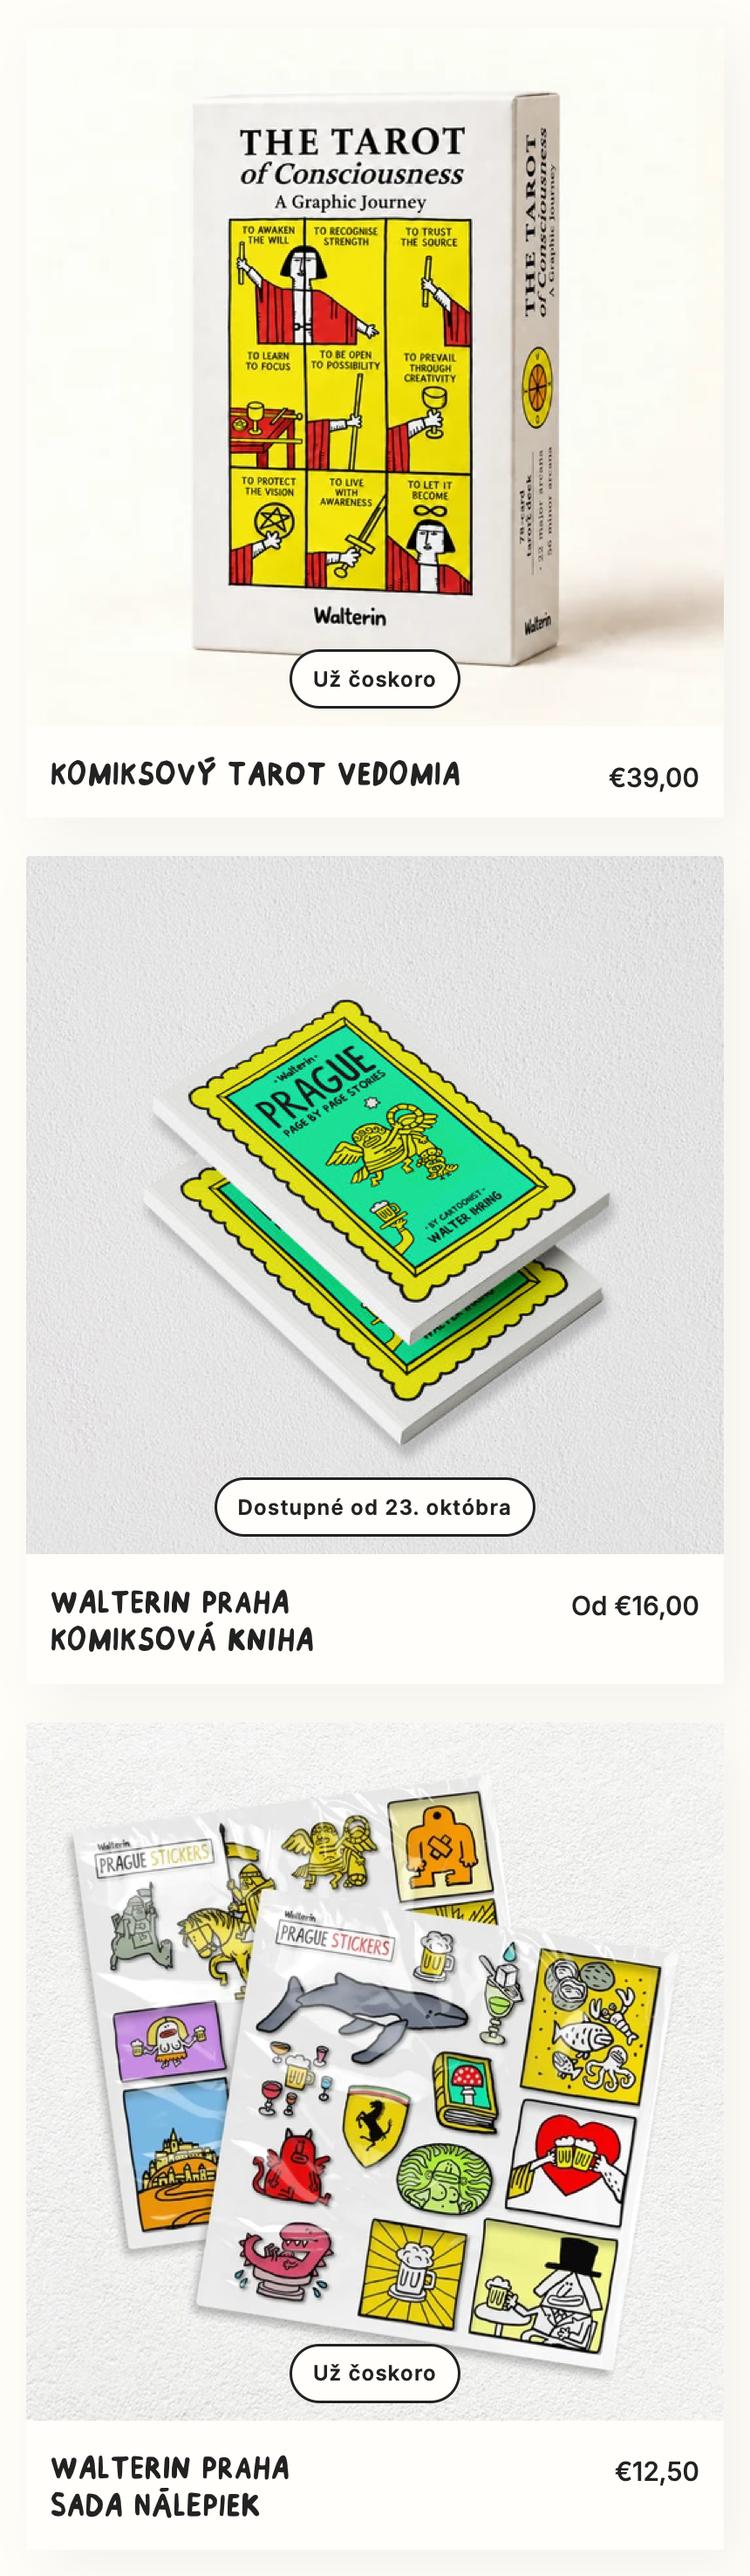
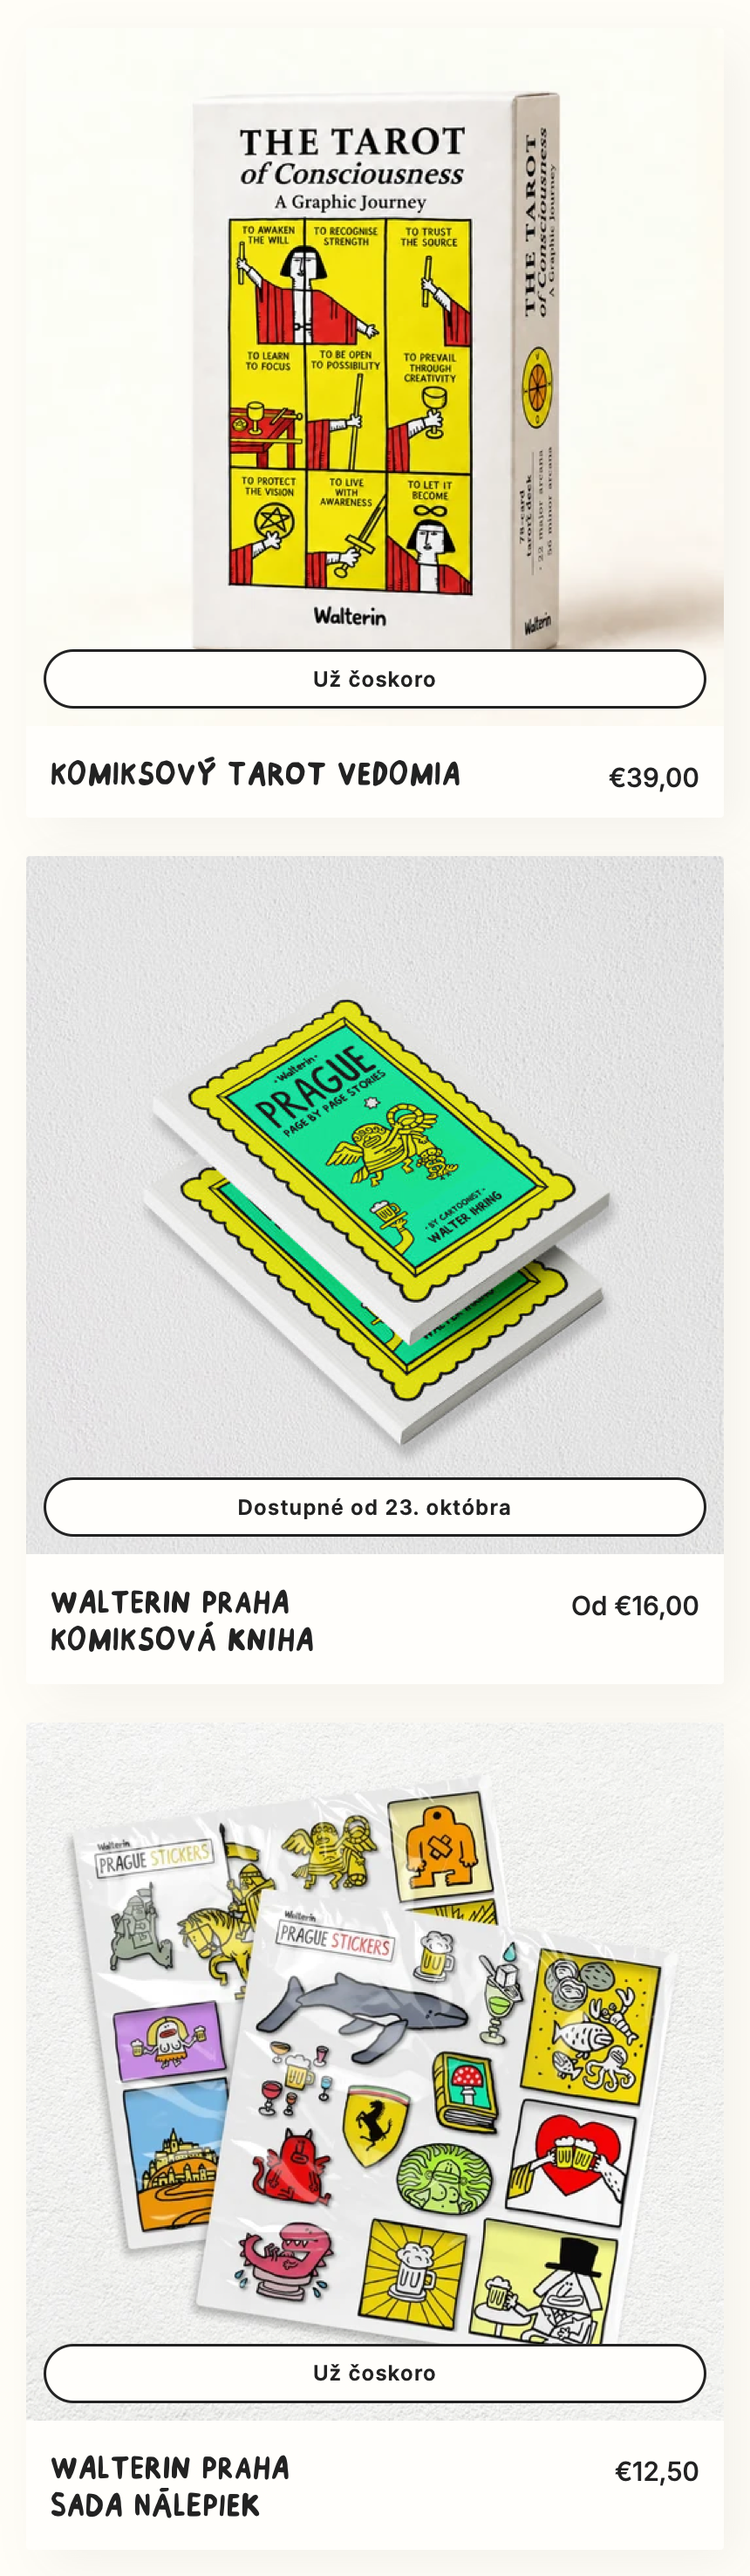
Pill spans the card on phones, and never disappears below 1024px
Preview only. Nothing pushed to the live theme.

Two corrections from Veronka, 7 Oct 2026, and both were mine to make.

1. The hugging, content-width pill is gone. It spans the card again, inset 10px
   each side on a phone against 14px on a desk — the same object at a smaller
   scale, not a different shape. Asked which scale she wanted rather than
   picking: full width at the slim phone size (34px / 7px 12px / 12px), with the
   desk unchanged at 48px / 12px 18px / 14px.

   The hugging was never in her brief. It was my idea, shipped into a preview
   without asking, and undoing it is the cost of that.

2. The pill no longer vanishes at phone widths. Visibility was decided by
   `@media (hover: none)` and nothing else, so any browser reporting a pointer
   hid it at rest — INCLUDING a desktop window dragged to phone width, which is
   exactly what she was looking at. Now `(hover: none), (max-width: 1024px)`:
   no hover at all, OR a viewport no wider than a tablet. An iPad in portrait is
   1024; in landscape it is 1366 and `hover: none` catches it.

   The sold-out wording follows the same test, or a sold-out card on a tablet
   would say "Sold out" and offer the bell only to a hover that never comes.

   Why this got through the first time: every earlier check emulated touch, and
   touch emulation PASSES the broken version — the fault needs a pointer at a
   small width to appear at all. The checks now run with touch and without, at
[…]

diff --git a/assets/walterin-ui.css b/assets/walterin-ui.css
@@ -1598,8 +1598,17 @@
 
 /* A phone has no hover, so the bar would never arrive. It is simply always
    there — see docs/design/PRODUCT-CARD-SYSTEM.md for why this is the chosen
-   answer rather than a tap-to-reveal. */
-@media (hover: none) {
+   answer rather than a tap-to-reveal.
+
+   Width as well as hover. `(hover: none)` alone was the whole test, and it let
+   the bar hide at rest in any browser that reports a pointer — which includes a
+   desktop window dragged narrow, and that is exactly where the pill was seen to
+   "appear and disappear" at phone sizes (Veronka, 7 Oct 2026).
+
+   The comma is OR: no hover at all, OR a viewport no wider than a tablet.
+   1024px is an iPad in portrait; an iPad in landscape is 1366 and is caught by
+   `hover: none` instead. Above both, the bar still waits for the reach. */
+@media (hover: none), screen and (max-width: 1024px) {
   .wui .wui-cl__bar {
     opacity: 1;
     transform: none;
@@ -1617,7 +1626,10 @@
 .wui .card-wrapper:focus-within .wui-cl__bar[data-wui-card-state='sold_out'] .wui-cl__label--hover {
   display: block;
 }
-@media (hover: none) {
+/* The same test as the bar's own visibility, for the same reason: a sold-out
+   card on a tablet would otherwise sit there saying "Sold out" and offer the
+   bell only to a hover that is never coming. */
+@media (hover: none), screen and (max-width: 1024px) {
   .wui .wui-cl__bar[data-wui-card-state='sold_out'] .wui-cl__label { display: none; }
   .wui .wui-cl__bar[data-wui-card-state='sold_out'] .wui-cl__label--hover { display: block; }
 }
@@ -1853,14 +1865,6 @@
     font-size: 12px;
     font-weight: 600;
     line-height: 1.25;
-    /* The bar hugs its words rather than spanning the card. Stretched across a
-       full-width card — layouts B and D — a pill holding "Coming soon" in the
-       middle of 340px reads as an empty input field, not as a label. Hugging
-       also does what "slimmer and smaller" asks for on the narrow layouts,
-       where the pill stops being the widest thing on the artwork. */
-    width: fit-content;
-    max-width: calc(100% - 20px);
-    margin-inline: auto;
   }
   .wui .product-grid .wui-cl__pill {
     top: 7px;

diff --git a/docs/design/PRODUCT-CARD-SYSTEM.md b/docs/design/PRODUCT-CARD-SYSTEM.md
@@ -264,16 +264,45 @@ every title to fit two lines, and the date to fit the pill on one line.
 **Queued, not built:** a customer-facing toggle between this and two-per-row, the way a shop offers
 grid or list. Post-launch — see the plan.
 
-### The bar hugs its words
+### The bar spans the card, at a smaller scale on a phone
 
-On a phone the bar is `width: fit-content`, centred, rather than inset to the card's edges. Stretched
-across a full-width card, a pill holding "Coming soon" in the middle of 340px reads as an empty input
-field rather than a label. It also does what "slimmer and smaller" asks: the pill stops being the
-widest thing on the artwork. Phone bar: `34px` tall at `12px`, against `48px` at `14px` on a desk.
+**Decided 7 October 2026 (Veronka): full width everywhere, never hugging its text.** The bar is
+inset from the card's left and right edges at every size; only the numbers change.
+
+| | Phone (≤ 749px) | Desk |
+|---|---|---|
+| Inset left / right | `10px` | `14px` |
+| Height | `34px` | `48px` |
+| Padding | `7px 12px` | `12px 18px` |
+| Type | `12px` | `14px` |
+
+The same object at a smaller scale, not a different shape. **A hugging, content-width pill was tried
+and rejected** — it was never asked for, and it made the bar read as a label floating on the artwork
+rather than the control it is.
 
 **Keyed to the phone as well as to the card width.** A full-width card on a 390px phone is 360px —
 wide by the container's measure, still a phone by the hand holding it — so the media query has the
 final say over the container query here.
+
+### The bar never disappears on a phone or a tablet
+
+**Fixed 7 October 2026.** Visibility used to be decided by `@media (hover: none)` and nothing else,
+so any browser that reports a pointer hid the bar at rest — **including a desktop window dragged to
+phone width**, which is where the pill was seen to "appear and disappear".
+
+```css
+@media (hover: none), screen and (max-width: 1024px) { /* always visible */ }
+```
+
+The comma is OR: no hover at all, **or** a viewport no wider than a tablet. 1024px is an iPad in
+portrait; an iPad in landscape is 1366 and is caught by `hover: none`. Above both, the bar still
+waits for the reach.
+
+**The sold-out wording follows the same test**, or a sold-out card on a tablet would sit there saying
+"Sold out" and offer the bell only to a hover that is never coming.
+
+**Testing this needs both.** Touch emulation alone would have passed the broken version: the fault
+only shows with a pointer present at a small width. Every check runs with touch *and* without.
 
 ### The card itself
 
@@ -340,6 +369,8 @@ through the design system's existing blanket rule.
 - The product page pill sits in the **price row** (placement B), not above the email field.
 - **The name leads, the price supports** — everywhere a card appears (7 Oct).
 - **One card per row on a phone**; natural heights there, equal heights on a desk (7 Oct).
+- **The bar spans the card at every size** — slimmer on a phone, never hugging its text (7 Oct).
+- **The bar never hides at or below 1024px**, hover or no hover (7 Oct).
 
 **Still open**
 

diff --git a/CLAUDE.md b/CLAUDE.md
@@ -73,6 +73,31 @@ languages** — on a phone the lines are shorter but still paragraphs. Use `text
 `<span>`, so use `<br>` and no-break spaces there. Run `python3 tools/check-line-breaks.py` before
 showing any text.
 
+## Ask before changing anything visual (mandatory, from 7 Oct 2026)
+
+**If Veronka did not ask for a visual change, do not make it. Ask first, and show the options.**
+
+This covers **size, width, shape, colour, layout, spacing and wording** — on any surface, in either
+language, however small the change looks.
+
+- **"It looked better to me" is not a reason to do it.** It is a reason to *propose* it.
+- **Applies inside work she did ask for.** Being told to fix the card bottoms is not permission to
+  change the shape of the pill above them.
+- **Applies to reversals too.** If an instruction from a previous day now seems wrong, say so and ask
+  — do not quietly overrule it with a newer idea.
+- **When an instruction is ambiguous, ask rather than pick.** Two readings of "the same padding" are
+  two different designs, and guessing costs a redo.
+- **Show the options, with the numbers.** Not a description of what might be done — the actual
+  choices, side by side, so she can decide by looking.
+
+The reason, in her words: *so we don't have to redo things.* An unrequested change costs two rounds
+— one to notice it, one to undo it — and it buries the change she actually wanted underneath one she
+did not.
+
+This does not cut against the Creative Mandate below. Propose freely, invent freely, argue for the
+stronger idea. **Proposing is the job; deciding is not.** The line is whether it ships without her
+word, not whether it gets suggested.
+
 ## Hard Constraints
 - **Comics Tarot of Consciousness is a product, not a therapy tool.** Never frame it through Jungian, psychological, or self-help language. It is illustration, story, and collectible — first.
 - **Walter has strong personal preferences.** When a creative suggestion conflicts with what is provably more market-effective, flag the conflict clearly and explain both sides — don't quietly override either way.
@@ -81,6 +106,12 @@ showing any text.
 
 ## Creative Mandate
 When something is unclear — propose. Invent. Suggest. Veronka needs a creative collaborator, not a prompt executor. If you see a stronger angle than the one being asked for, say it. If something is missing — make the best creative call and flag it. Don't stop and ask.
+
+**Read this with the rule above, not against it.** The mandate is about *ideas*: bring them, argue
+for them, don't wait to be asked. It is not a licence to ship a visual change she did not ask for.
+"Make the best creative call and flag it" applies to copy drafts, structure and strategy — where a
+proposal is the deliverable. For anything visual that is already built and agreed, the call goes to
+her first.
 
 ## Reference Documents in This Folder
 Use these based on the task. They are the source of truth — read the relevant one before writing copy or making strategy calls.

diff --git a/docs/design/proof/card-layout-final/README.md b/docs/design/proof/card-layout-final/README.md
@@ -1,14 +1,21 @@
-# Card layout and type hierarchy — the build Veronka approved on 7 October 2026
+# Card layout, type hierarchy and the pill — build awaiting "OK live" (7 Oct 2026)
 
-Safari (WebKit), captured from the preview, cropped to the shopping row.
-`390` and `430` have touch emulated, so the pills behave as they do on a phone rather than as they
-do in a narrow desktop window.
+Safari (WebKit), captured from the preview, cropped to the shopping row, pointer parked in the
+corner so nothing is hovered.
 
-- **390 / 430** — one card per row (layout B), natural card heights, pill hugging its words
-- **768** — two per row, equal heights within the row
-- **1440** — three per row, equal heights, the ruled bottom edge
+| File | What it shows |
+|---|---|
+| `390-*`, `430-*` | phone — one card per row, pill full width at the slim phone scale |
+| `768-*`, `1024-*` | tablet — two per row, equal heights within the row, pill always visible |
+| `1440-*` | desk — three per row, ruled bottom edge, pill hover-revealed (so it is absent here, correctly) |
+| `*-narrow-desktop` | **a desktop browser dragged narrow, no touch at all** — the case where the pill used to vanish |
 
-The name leads at 16px (narrow) / 18px (wide); the price supports at 13px / 15px, weight 500, full
-ink. Both languages, because Slovak is the longer one and it is where the layout gets tested.
+The last row is the point of this set. Visibility used to key off `@media (hover: none)` alone, so
+any browser reporting a pointer hid the pill at rest — including a desktop window at phone width.
+It is now `(hover: none) OR a viewport up to 1024px`, and the `-narrow-desktop` shots are the proof
+that the two agree.
+
+Measured on every surface here, both engines, with touch and without: pill spans the card inset
+10px each side, 34px tall at 12px on a phone, and never hides at or below 1024px.
 
 Spec: `docs/design/PRODUCT-CARD-SYSTEM.md`. How layout B was chosen: `../phone-layouts/index.html`.
